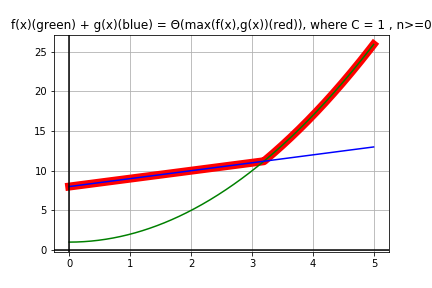
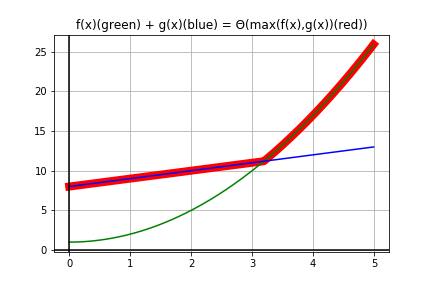
chapter2 IP

Changed region(s): [[0.0301, 0.0625, 1.0, 0.125]]

diff --git a/2. Big O Notation/README.md b/2. Big O Notation/README.md
@@ -119,7 +119,7 @@ f(n) + g(n) &#8804; 2(max(f(n),g(n))) , where c = 1 <br>
   <img src="https://user-images.githubusercontent.com/13907836/52325751-10cc3980-299b-11e9-827e-645d5265d300.png">
   <img src="https://user-images.githubusercontent.com/13907836/52325762-1de92880-299b-11e9-8fcd-e6cdff039274.png">
   <img src="https://user-images.githubusercontent.com/13907836/52325771-27729080-299b-11e9-9eb6-1da682ae90ae.png">
-  <img src="https://user-images.githubusercontent.com/13907836/52325791-36594300-299b-11e9-89de-268b91f0f361.png">
+  <img src="https://user-images.githubusercontent.com/13907836/52325856-74eefd80-299b-11e9-8010-bfc2bb5f085b.png">
   <img src="https://user-images.githubusercontent.com/13907836/52325798-3c4f2400-299b-11e9-8c22-8033716beb06.png">
   <img src="https://user-images.githubusercontent.com/13907836/52325808-453ff580-299b-11e9-8e7b-e3c52a50b09e.png">
 </p>
